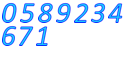
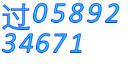
no message

diff --git a/src/count7.js b/src/count7.js
@@ -30,10 +30,6 @@ var Count7Controller = cc.Class.extend({
         this.count = 1;
     },
 
-    isDivisibled7:function(num){
-
-        return num%7==0;
-    }
 });
 
 var Count7Player = cc.Sprite.extend({
@@ -63,6 +59,11 @@ var Count7Player = cc.Sprite.extend({
         //this.addChild(this._nameLabel);
     },
 
+    isDivisibled7:function(num){
+
+        return num%7==0;
+    },
+
     getName: function () {
         return this._name;
     },
@@ -72,6 +73,9 @@ var Count7Player = cc.Sprite.extend({
     },
 
     numberOff:function(num){
+        if(this.isDivisibled7(num)){
+            num = "过"
+        }
         var numberOff = new cc.LabelBMFont(num,res.NumberTTF,60);
         numberOff.setPosition(60,150);
         numberOff.setScale(0);
@@ -105,6 +109,7 @@ var Count7Layer = cc.Layer.extend({
     time:0,
     countTime:0,
     countId:1,
+    countPlayerId:1,
 
     ctor:function(){
         this._super();
@@ -130,12 +135,13 @@ var Count7Layer = cc.Layer.extend({
 
         if(this.countTime>=2){
 
-            this.players[this.countId-1].numberOff(this.countId);
+            this.players[this.countPlayerId-1].numberOff(this.countId);
 
-            if(++this.countId>8){
-                this.countId = 1;
+            if(++this.countPlayerId>8){
+                this.countPlayerId = 1;
             }
 
+            this.countId++;
             this.countTime=0;
         }
     },
